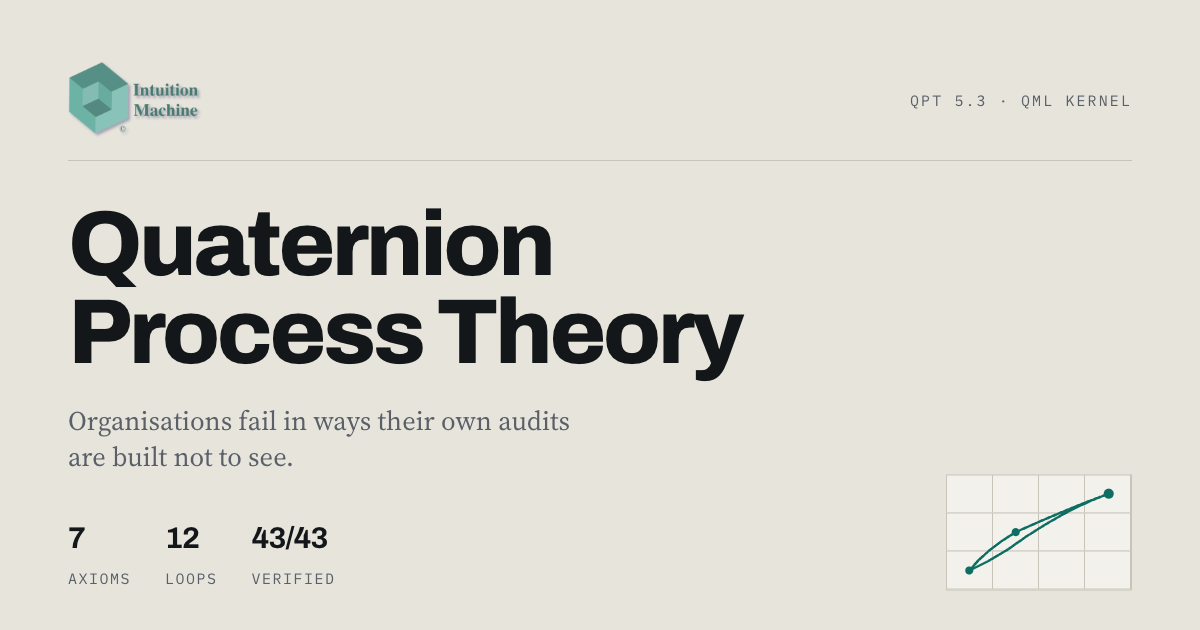
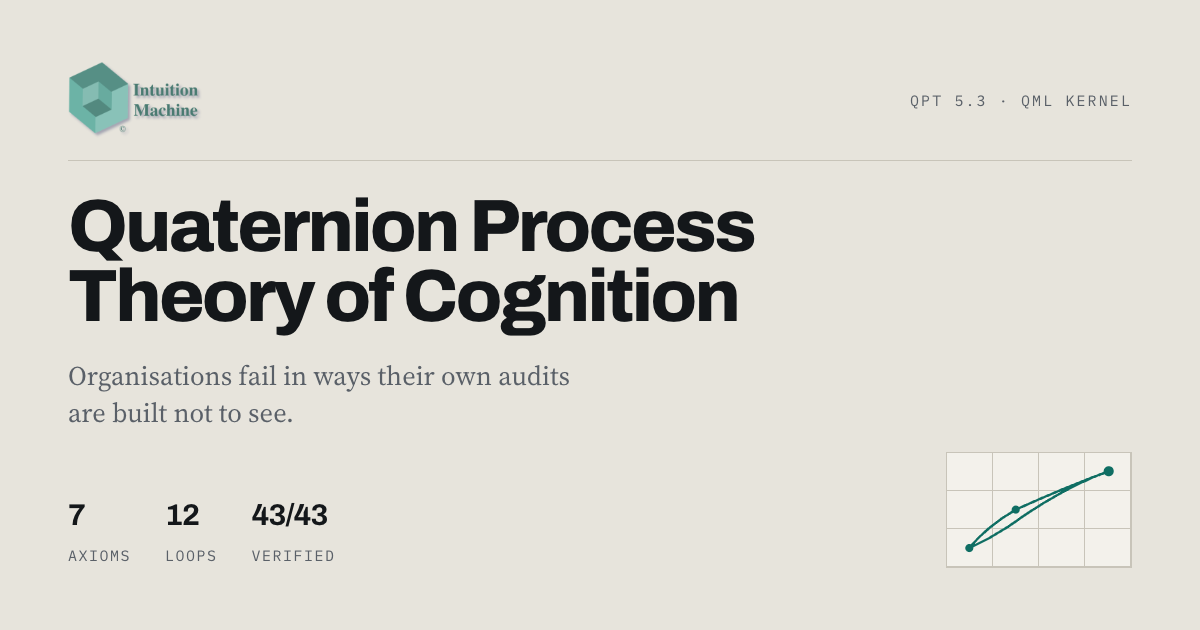
Name the theory Quaternion Process Theory of Cognition
The site was naming it by its foundation - "Quaternion Process Theory on
the QML kernel" - in every page footer, and using the bare short name in
titles and the hero. The theory's name is Quaternion Process Theory of
Cognition, and that is what it now says.

Changed in the h1, page titles, footer tagline, meta and social
descriptions, and the share image. The hero eyebrow no longer subtitles
the theory by its kernel either.

References to the QML kernel as a thing are kept where a page is
actually about it, since the objection was to naming the theory that
way, not to the kernel.

diff --git a/site/index.html b/site/index.html
@@ -3,8 +3,8 @@
 <head>
 <meta charset="utf-8">
 <meta name="viewport" content="width=device-width, initial-scale=1">
-<title>Intuition Machine — Quaternion Process Theory</title>
-<meta name="description" content="Quaternion Process Theory models process as movement on a twelve-cell space. Founded on the QML kernel: seven axioms, one generative operator, and a machine-checked model.">
+<title>Intuition Machine — Quaternion Process Theory of Cognition</title>
+<meta name="description" content="Quaternion Process Theory of Cognition models process as movement on a twelve-cell space: seven axioms, one generative operator, and a machine-checked model.">
 <link rel="canonical" href="https://intuitionmachine.com/index.html">
 <link rel="icon" href="assets/img/favicon.ico" sizes="any">
 <link rel="icon" href="assets/img/favicon-32.png" type="image/png" sizes="32x32">
@@ -12,16 +12,16 @@
 
 <meta property="og:type" content="website">
 <meta property="og:site_name" content="Intuition Machine">
-<meta property="og:title" content="Intuition Machine — Quaternion Process Theory">
-<meta property="og:description" content="Quaternion Process Theory models process as movement on a twelve-cell space. Founded on the QML kernel: seven axioms, one generative operator, and a machine-checked model.">
+<meta property="og:title" content="Intuition Machine — Quaternion Process Theory of Cognition">
+<meta property="og:description" content="Quaternion Process Theory of Cognition models process as movement on a twelve-cell space: seven axioms, one generative operator, and a machine-checked model.">
 <meta property="og:url" content="https://intuitionmachine.com/">
 <meta property="og:image" content="https://intuitionmachine.com/assets/img/og.png">
 <meta property="og:image:width" content="1200">
 <meta property="og:image:height" content="630">
 <meta property="og:image:alt" content="Intuition Machine — Quaternion Process Theory. Seven axioms, twelve loops, 43 of 43 checks verified.">
 <meta name="twitter:card" content="summary_large_image">
-<meta name="twitter:title" content="Intuition Machine — Quaternion Process Theory">
-<meta name="twitter:description" content="Quaternion Process Theory models process as movement on a twelve-cell space. Founded on the QML kernel: seven axioms, one generative operator, and a machine-checked model.">
+<meta name="twitter:title" content="Intuition Machine — Quaternion Process Theory of Cognition">
+<meta name="twitter:description" content="Quaternion Process Theory of Cognition models process as movement on a twelve-cell space: seven axioms, one generative operator, and a machine-checked model.">
 <meta name="twitter:image" content="https://intuitionmachine.com/assets/img/og.png">
 
 <link rel="stylesheet" href="assets/css/site.css">
@@ -60,8 +60,8 @@
            alt="Intuition Machine">
       <i>Arlington, Virginia<br>Founded 2015</i>
     </div>
-    <span class="label hero__eyebrow">QPT 5.3 &nbsp;·&nbsp; On the QML Kernel &nbsp;·&nbsp; 43/43 checks verified</span>
-    <h1>Quaternion Process Theory</h1>
+    <span class="label hero__eyebrow">QPT 5.3 &nbsp;·&nbsp; 43/43 checks verified</span>
+    <h1>Quaternion Process Theory of Cognition</h1>
     <p class="hero__sub">Organisations fail in ways their own audits are built not to see.
     QPT models process as movement on a twelve-cell space — so a failure becomes a
     syntax error you can point at.</p>
@@ -507,7 +507,7 @@
           <img class="brand__mark" src="assets/img/mark.png" width="193" height="235" alt="">
           <b style="color:var(--paper-hi)">Intuition Machine</b>
         </a>
-        <p style="margin-top:.9rem;max-width:34ch">Quaternion Process Theory on the QML kernel</p>
+        <p style="margin-top:.9rem;max-width:34ch">Quaternion Process Theory of Cognition</p>
       </div>
       <div>
         <h4>Theory</h4>

diff --git a/site/video.html b/site/video.html
@@ -3,7 +3,7 @@
 <head>
 <meta charset="utf-8">
 <meta name="viewport" content="width=device-width, initial-scale=1">
-<title>Video — Quaternion Process Theory</title>
+<title>Video — Quaternion Process Theory of Cognition</title>
 <meta name="description" content="A 36-part video series working through Quaternion Process Theory: the kernel, the loops, the pathologies and the dispatch extensions.">
 <link rel="canonical" href="https://intuitionmachine.com/video.html">
 <link rel="icon" href="assets/img/favicon.ico" sizes="any">
@@ -12,7 +12,7 @@
 
 <meta property="og:type" content="website">
 <meta property="og:site_name" content="Intuition Machine">
-<meta property="og:title" content="Video — Quaternion Process Theory">
+<meta property="og:title" content="Video — Quaternion Process Theory of Cognition">
 <meta property="og:description" content="A 36-part video series working through Quaternion Process Theory: the kernel, the loops, the pathologies and the dispatch extensions.">
 <meta property="og:url" content="https://intuitionmachine.com/video.html">
 <meta property="og:image" content="https://intuitionmachine.com/assets/img/og.png">
@@ -20,7 +20,7 @@
 <meta property="og:image:height" content="630">
 <meta property="og:image:alt" content="Intuition Machine — Quaternion Process Theory. Seven axioms, twelve loops, 43 of 43 checks verified.">
 <meta name="twitter:card" content="summary_large_image">
-<meta name="twitter:title" content="Video — Quaternion Process Theory">
+<meta name="twitter:title" content="Video — Quaternion Process Theory of Cognition">
 <meta name="twitter:description" content="A 36-part video series working through Quaternion Process Theory: the kernel, the loops, the pathologies and the dispatch extensions.">
 <meta name="twitter:image" content="https://intuitionmachine.com/assets/img/og.png">
 
@@ -55,7 +55,7 @@
 
   <section class="wrap page-head">
     <span class="label">Video</span>
-    <h1>Quaternion Process Theory, on video</h1>
+    <h1>Quaternion Process Theory of Cognition, on video</h1>
     <p class="lede">36 episodes working through the theory — the kernel, the
     loops, the pathologies, and the dispatch extensions. Play them here, in order or not.</p>
   </section>
@@ -178,7 +178,7 @@
           <img class="brand__mark" src="assets/img/mark.png" width="193" height="235" alt="">
           <b style="color:var(--paper-hi)">Intuition Machine</b>
         </a>
-        <p style="margin-top:.9rem;max-width:34ch">Quaternion Process Theory on the QML kernel</p>
+        <p style="margin-top:.9rem;max-width:34ch">Quaternion Process Theory of Cognition</p>
       </div>
       <div>
         <h4>Theory</h4>

diff --git a/site/kernel.html b/site/kernel.html
@@ -3,7 +3,7 @@
 <head>
 <meta charset="utf-8">
 <meta name="viewport" content="width=device-width, initial-scale=1">
-<title>The Kernel — Quaternion Process Theory</title>
+<title>The Kernel — Quaternion Process Theory of Cognition</title>
 <meta name="description" content="The QML kernel: three spine levels, four attentional columns, and one generative operator from which the rest of the theory is built.">
 <link rel="canonical" href="https://intuitionmachine.com/kernel.html">
 <link rel="icon" href="assets/img/favicon.ico" sizes="any">
@@ -12,7 +12,7 @@
 
 <meta property="og:type" content="website">
 <meta property="og:site_name" content="Intuition Machine">
-<meta property="og:title" content="The Kernel — Quaternion Process Theory">
+<meta property="og:title" content="The Kernel — Quaternion Process Theory of Cognition">
 <meta property="og:description" content="The QML kernel: three spine levels, four attentional columns, and one generative operator from which the rest of the theory is built.">
 <meta property="og:url" content="https://intuitionmachine.com/kernel.html">
 <meta property="og:image" content="https://intuitionmachine.com/assets/img/og.png">
@@ -20,7 +20,7 @@
 <meta property="og:image:height" content="630">
 <meta property="og:image:alt" content="Intuition Machine — Quaternion Process Theory. Seven axioms, twelve loops, 43 of 43 checks verified.">
 <meta name="twitter:card" content="summary_large_image">
-<meta name="twitter:title" content="The Kernel — Quaternion Process Theory">
+<meta name="twitter:title" content="The Kernel — Quaternion Process Theory of Cognition">
 <meta name="twitter:description" content="The QML kernel: three spine levels, four attentional columns, and one generative operator from which the rest of the theory is built.">
 <meta name="twitter:image" content="https://intuitionmachine.com/assets/img/og.png">
 
@@ -298,7 +298,7 @@ qml_q(x, y)  :=  Φ_q(x) ⊖ Φ̄_q(y)</pre>
           <img class="brand__mark" src="assets/img/mark.png" width="193" height="235" alt="">
           <b style="color:var(--paper-hi)">Intuition Machine</b>
         </a>
-        <p style="margin-top:.9rem;max-width:34ch">Quaternion Process Theory on the QML kernel</p>
+        <p style="margin-top:.9rem;max-width:34ch">Quaternion Process Theory of Cognition</p>
       </div>
       <div>
         <h4>Theory</h4>

diff --git a/site/loops.html b/site/loops.html
@@ -3,7 +3,7 @@
 <head>
 <meta charset="utf-8">
 <meta name="viewport" content="width=device-width, initial-scale=1">
-<title>The Loops — Quaternion Process Theory</title>
+<title>The Loops — Quaternion Process Theory of Cognition</title>
 <meta name="description" content="Twelve recurring processes, each written as a word: a string of moves on the matrix that closes back on its start cell.">
 <link rel="canonical" href="https://intuitionmachine.com/loops.html">
 <link rel="icon" href="assets/img/favicon.ico" sizes="any">
@@ -12,7 +12,7 @@
 
 <meta property="og:type" content="website">
 <meta property="og:site_name" content="Intuition Machine">
-<meta property="og:title" content="The Loops — Quaternion Process Theory">
+<meta property="og:title" content="The Loops — Quaternion Process Theory of Cognition">
 <meta property="og:description" content="Twelve recurring processes, each written as a word: a string of moves on the matrix that closes back on its start cell.">
 <meta property="og:url" content="https://intuitionmachine.com/loops.html">
 <meta property="og:image" content="https://intuitionmachine.com/assets/img/og.png">
@@ -20,7 +20,7 @@
 <meta property="og:image:height" content="630">
 <meta property="og:image:alt" content="Intuition Machine — Quaternion Process Theory. Seven axioms, twelve loops, 43 of 43 checks verified.">
 <meta name="twitter:card" content="summary_large_image">
-<meta name="twitter:title" content="The Loops — Quaternion Process Theory">
+<meta name="twitter:title" content="The Loops — Quaternion Process Theory of Cognition">
 <meta name="twitter:description" content="Twelve recurring processes, each written as a word: a string of moves on the matrix that closes back on its start cell.">
 <meta name="twitter:image" content="https://intuitionmachine.com/assets/img/og.png">
 
@@ -300,7 +300,7 @@ depth = ω  (⦿G, ⦿R)  → semantic at best</pre>
           <img class="brand__mark" src="assets/img/mark.png" width="193" height="235" alt="">
           <b style="color:var(--paper-hi)">Intuition Machine</b>
         </a>
-        <p style="margin-top:.9rem;max-width:34ch">Quaternion Process Theory on the QML kernel</p>
+        <p style="margin-top:.9rem;max-width:34ch">Quaternion Process Theory of Cognition</p>
       </div>
       <div>
         <h4>Theory</h4>

diff --git a/site/diagnosis.html b/site/diagnosis.html
@@ -3,7 +3,7 @@
 <head>
 <meta charset="utf-8">
 <meta name="viewport" content="width=device-width, initial-scale=1">
-<title>Diagnosis — Quaternion Process Theory</title>
+<title>Diagnosis — Quaternion Process Theory of Cognition</title>
 <meta name="description" content="Pathologies as syntactic edits to healthy words, and the seven-layer diagnostic that locates them.">
 <link rel="canonical" href="https://intuitionmachine.com/diagnosis.html">
 <link rel="icon" href="assets/img/favicon.ico" sizes="any">
@@ -12,7 +12,7 @@
 
 <meta property="og:type" content="website">
 <meta property="og:site_name" content="Intuition Machine">
-<meta property="og:title" content="Diagnosis — Quaternion Process Theory">
+<meta property="og:title" content="Diagnosis — Quaternion Process Theory of Cognition">
 <meta property="og:description" content="Pathologies as syntactic edits to healthy words, and the seven-layer diagnostic that locates them.">
 <meta property="og:url" content="https://intuitionmachine.com/diagnosis.html">
 <meta property="og:image" content="https://intuitionmachine.com/assets/img/og.png">
@@ -20,7 +20,7 @@
 <meta property="og:image:height" content="630">
 <meta property="og:image:alt" content="Intuition Machine — Quaternion Process Theory. Seven axioms, twelve loops, 43 of 43 checks verified.">
 <meta name="twitter:card" content="summary_large_image">
-<meta name="twitter:title" content="Diagnosis — Quaternion Process Theory">
+<meta name="twitter:title" content="Diagnosis — Quaternion Process Theory of Cognition">
 <meta name="twitter:description" content="Pathologies as syntactic edits to healthy words, and the seven-layer diagnostic that locates them.">
 <meta name="twitter:image" content="https://intuitionmachine.com/assets/img/og.png">
 
@@ -245,7 +245,7 @@ Edit at the spine        IMPOSSIBLE — quality cannot be rewritten,
           <img class="brand__mark" src="assets/img/mark.png" width="193" height="235" alt="">
           <b style="color:var(--paper-hi)">Intuition Machine</b>
         </a>
-        <p style="margin-top:.9rem;max-width:34ch">Quaternion Process Theory on the QML kernel</p>
+        <p style="margin-top:.9rem;max-width:34ch">Quaternion Process Theory of Cognition</p>
       </div>
       <div>
         <h4>Theory</h4>

diff --git a/site/about.html b/site/about.html
@@ -100,7 +100,7 @@
           <img class="brand__mark" src="assets/img/mark.png" width="193" height="235" alt="">
           <b style="color:var(--paper-hi)">Intuition Machine</b>
         </a>
-        <p style="margin-top:.9rem;max-width:34ch">Quaternion Process Theory on the QML kernel</p>
+        <p style="margin-top:.9rem;max-width:34ch">Quaternion Process Theory of Cognition</p>
       </div>
       <div>
         <h4>Theory</h4>

diff --git a/site/software.html b/site/software.html
@@ -298,7 +298,7 @@
           <img class="brand__mark" src="assets/img/mark.png" width="193" height="235" alt="">
           <b style="color:var(--paper-hi)">Intuition Machine</b>
         </a>
-        <p style="margin-top:.9rem;max-width:34ch">Quaternion Process Theory on the QML kernel</p>
+        <p style="margin-top:.9rem;max-width:34ch">Quaternion Process Theory of Cognition</p>
       </div>
       <div>
         <h4>Theory</h4>

diff --git a/site/team.html b/site/team.html
@@ -110,7 +110,7 @@
           <img class="brand__mark" src="assets/img/mark.png" width="193" height="235" alt="">
           <b style="color:var(--paper-hi)">Intuition Machine</b>
         </a>
-        <p style="margin-top:.9rem;max-width:34ch">Quaternion Process Theory on the QML kernel</p>
+        <p style="margin-top:.9rem;max-width:34ch">Quaternion Process Theory of Cognition</p>
       </div>
       <div>
         <h4>Theory</h4>

diff --git a/site/404.html b/site/404.html
@@ -91,7 +91,7 @@
           <img class="brand__mark" src="assets/img/mark.png" width="193" height="235" alt="">
           <b style="color:var(--paper-hi)">Intuition Machine</b>
         </a>
-        <p style="margin-top:.9rem;max-width:34ch">Quaternion Process Theory on the QML kernel</p>
+        <p style="margin-top:.9rem;max-width:34ch">Quaternion Process Theory of Cognition</p>
       </div>
       <div>
         <h4>Theory</h4>

diff --git a/build_pages.py b/build_pages.py
@@ -176,7 +176,7 @@ def shell(title, description, body, body_class="", slug="index.html"):
           <img class="brand__mark" src="assets/img/mark.png" width="193" height="235" alt="">
           <b style="color:var(--paper-hi)">Intuition Machine</b>
         </a>
-        <p style="margin-top:.9rem;max-width:34ch">Quaternion Process Theory on the QML kernel</p>
+        <p style="margin-top:.9rem;max-width:34ch">Quaternion Process Theory of Cognition</p>
       </div>
       <div>
         <h4>Theory</h4>
@@ -740,7 +740,7 @@ _ITEMS = "\n".join(
 VIDEO = f"""
   <section class="wrap page-head">
     <span class="label">Video</span>
-    <h1>Quaternion Process Theory, on video</h1>
+    <h1>Quaternion Process Theory of Cognition, on video</h1>
     <p class="lede">{len(_PL["videos"])} episodes working through the theory — the kernel, the
     loops, the pathologies, and the dispatch extensions. Play them here, in order or not.</p>
   </section>
@@ -875,19 +875,19 @@ ABOUT = """
 """
 
 PAGES = [
-    ("kernel.html", "The Kernel — Quaternion Process Theory",
+    ("kernel.html", "The Kernel — Quaternion Process Theory of Cognition",
      "The QML kernel: three spine levels, four attentional columns, and one generative "
      "operator from which the rest of the theory is built.", KERNEL),
-    ("loops.html", "The Loops — Quaternion Process Theory",
+    ("loops.html", "The Loops — Quaternion Process Theory of Cognition",
      "Twelve recurring processes, each written as a word: a string of moves on the matrix "
      "that closes back on its start cell.", LOOPS),
     ("software.html", "Software — Connection Machine and Intuition Machine",
      "Connection Machine builds the fold-witness graph. Intuition Machine makes the "
      "selector explicit: typed dispatch with a live-judgment path held open.", SOFTWARE),
-    ("diagnosis.html", "Diagnosis — Quaternion Process Theory",
+    ("diagnosis.html", "Diagnosis — Quaternion Process Theory of Cognition",
      "Pathologies as syntactic edits to healthy words, and the seven-layer diagnostic that "
      "locates them.", DIAGNOSIS),
-    ("video.html", "Video — Quaternion Process Theory",
+    ("video.html", "Video — Quaternion Process Theory of Cognition",
      "A 36-part video series working through Quaternion Process Theory: the kernel, "
      "the loops, the pathologies and the dispatch extensions.", VIDEO),
     ("team.html", "Team — Intuition Machine",
